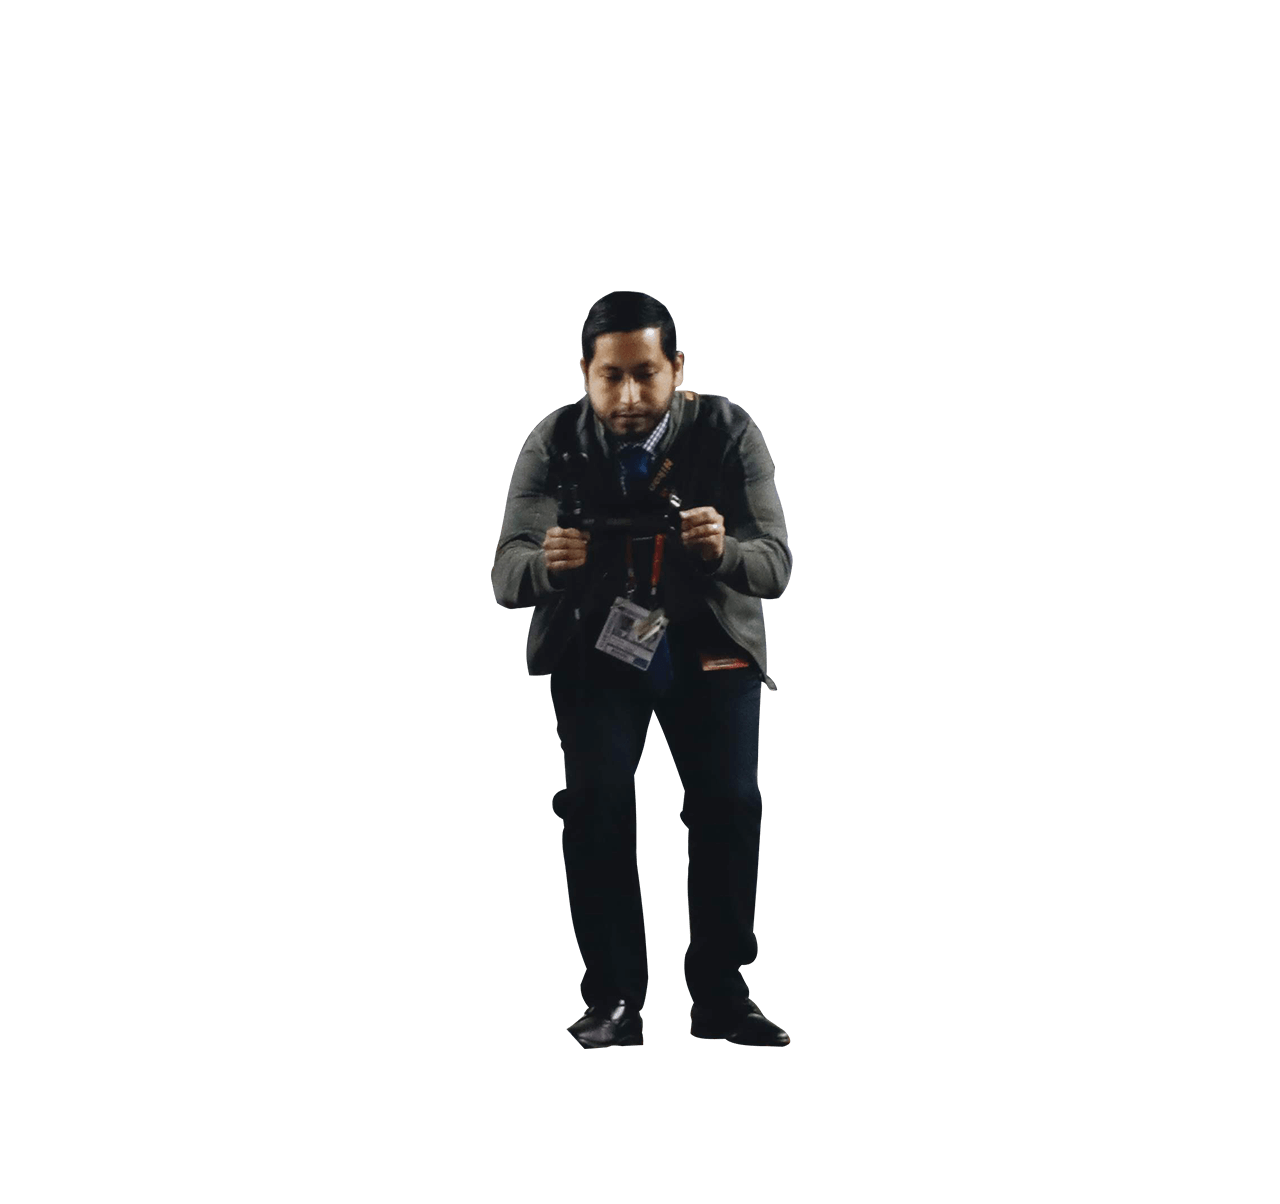
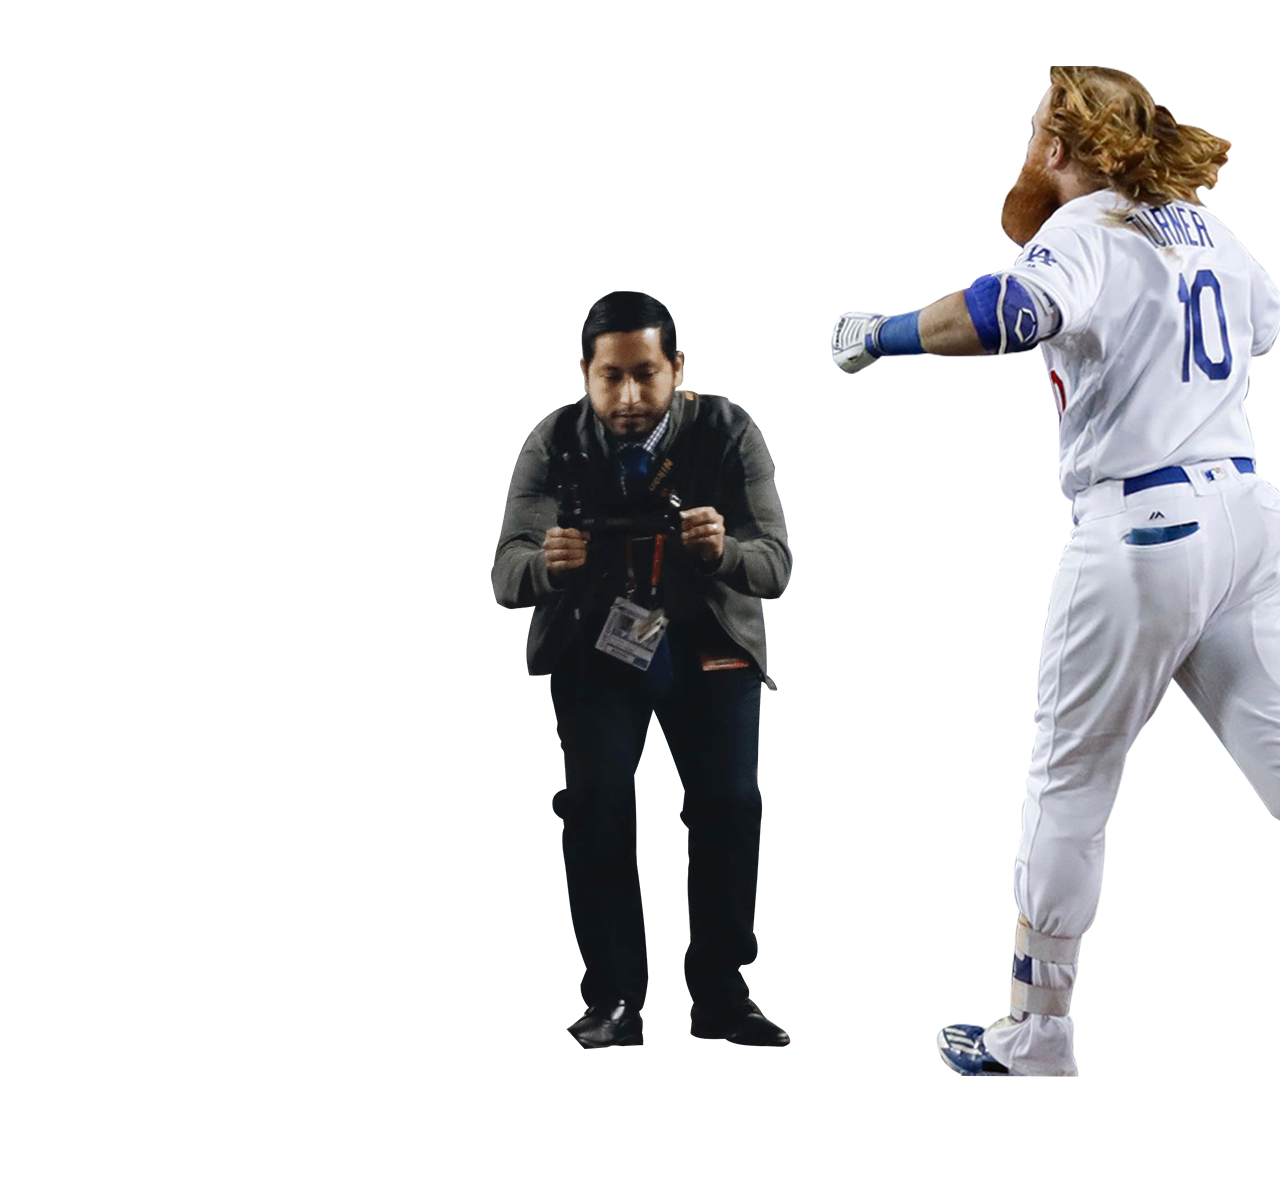
Updated homepage cutout to include JT over text

Changed region(s): [[0.625, 0.0307, 1.0, 0.9219]]

diff --git a/src/pages/posts/014-mesa-mc.md b/src/pages/posts/014-mesa-mc.md
@@ -1,15 +1,14 @@
 ---
-title: "Purity Organic"
-subtitle: "Shopify Custom Development"
+title: "Mesa Water District"
+subtitle: "Mailchimp Email Template"
 date: 2019-12-19 15:22:00
 author: "Matthew Mesa"
 image: ../../images/th_si_cover.jpg
-thumbnail: ../../images/purity_hp.jpg
-order: 3
+thumbnail: ../../images/mesa_mc_hp.jpg
+order: 8
 tags:
+- mailchimp
 - web dev
-- ecommerce
-- shopify
 ---
 
 ##what i did

diff --git a/src/pages/posts/005-thompson.md b/src/pages/posts/005-thompson.md
@@ -5,7 +5,7 @@ date: 2019-10-06 15:22:00
 author: "Matthew Mesa"
 image: ../../images/thompson_video_header.jpg
 thumbnail: ../../images/thompson_video_th.jpg
-order: 6
+order: 9
 videoSourceURL: https://youtube.com/embed/KK_1zaSyf6k
 videoTitle: Trayce Thompson Walk-off Home Run vs. Mets
 tags:

diff --git a/src/pages/posts/008-kbh.md b/src/pages/posts/008-kbh.md
@@ -7,7 +7,7 @@ image: ../../images/kbh_header.jpg
 thumbnail: ../../images/kbh_hp.jpg
 videoSourceURL: https://youtube.com/embed/27S1SjjqwpE
 videoTitle: LAD - Kenley Jansen Bobblehead 'Reveal'
-order: 8
+order: 9
 tags:
 - graphic design
 - photo

diff --git a/src/pages/posts/003-elijah.md b/src/pages/posts/003-elijah.md
@@ -5,7 +5,7 @@ date: 2019-10-06 15:22:00
 author: "Matthew Mesa"
 image: ../../images/em_hat_trick_header.jpg
 thumbnail: ../../images/em_hat_trick.jpg
-order: 2
+order: 7
 tags:
 - graphic design
 - photo

diff --git a/src/pages/posts/006-cfa.md b/src/pages/posts/006-cfa.md
@@ -6,7 +6,7 @@ author: "Matthew Mesa"
 image: ../../images/cfa_header.jpg
 thumbnail: ../../images/cfa_hp.jpg
 mockup: ../../images/cfa_mockup.png
-order: 3
+order: 5
 tags:
 - graphic design
 - web dev

diff --git a/src/pages/posts/007-mm.md b/src/pages/posts/007-mm.md
@@ -6,7 +6,7 @@ author: "Matthew Mesa"
 image: ../../images/mm_header.jpg
 thumbnail: ../../images/mm_hp.jpg
 mockup: ../../images/mm_mockup.png
-order: 7
+order: 9
 tags:
 - graphic design
 - web dev

diff --git a/src/pages/posts/004-kenta.md b/src/pages/posts/004-kenta.md
@@ -5,7 +5,7 @@ date: 2019-10-06 15:22:00
 author: "Matthew Mesa"
 image: ../../images/photos_spring_header.jpg
 thumbnail: ../../images/kenta.jpg
-order: 5
+order: 9
 tags:
 - photo
 - social media

diff --git a/src/pages/posts/009-dear-vin.md b/src/pages/posts/009-dear-vin.md
@@ -5,7 +5,7 @@ date: 2019-10-06 15:22:00
 author: "Matthew Mesa"
 image: ../../images/vin_header.jpg
 thumbnail: ../../images/vin_hp.jpg
-order: 4
+order: 9
 tags:
 - graphic design
 - social media

diff --git a/src/pages/posts/012-level.md b/src/pages/posts/012-level.md
@@ -5,7 +5,7 @@ date: 2019-12-19 15:22:00
 author: "Matthew Mesa"
 image: ../../images/th_si_cover.jpg
 thumbnail: ../../images/level_hp.jpg
-order: 3
+order: 6
 tags:
 - web dev
 - ecommerce
